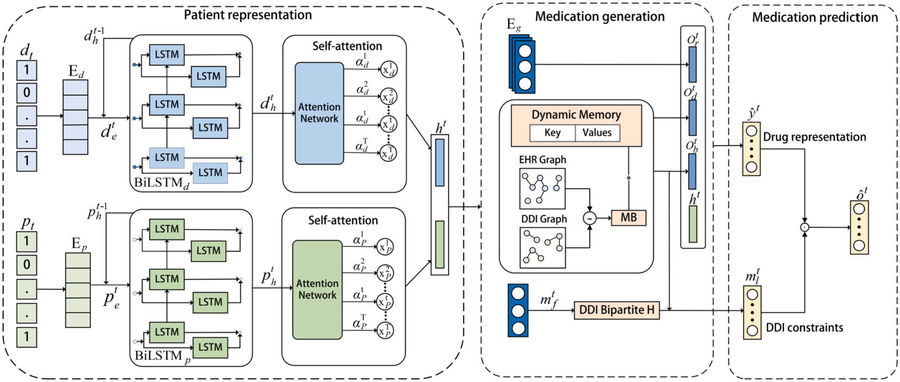
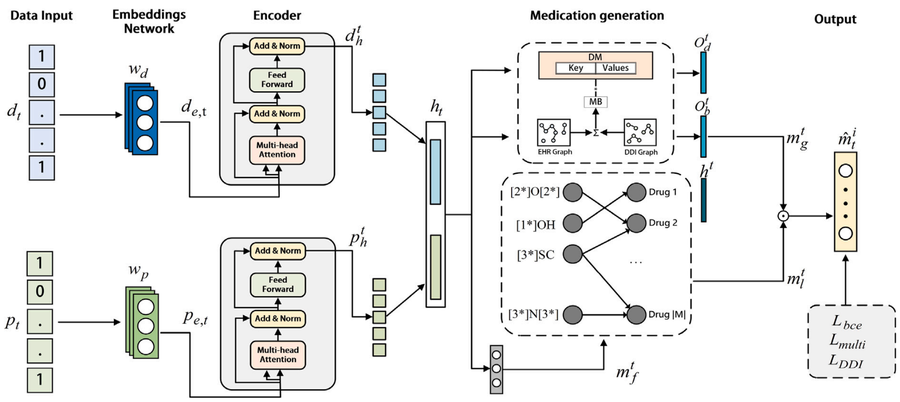
Use the corrected Trans-GAHNet and DG-MRM poster figures, list full author names, shorten the DG-MRM venue, and make muted text readable in dark mode

diff --git a/publications/index.html b/publications/index.html
@@ -78,7 +78,7 @@ review. My name appears in bold in the author lists below; click a figure to see
   </div>
   <div class="pub__body">
     <div class="pub__title">CLEAR: Prototype-conditioned flow purification for LLM-based rumor detection with Dirichlet evidential learning</div>
-    <div class="pub__authors">Z. Liu, H. Wu, X. Fang, <strong>G. Liu</strong>, et al.</div>
+    <div class="pub__authors">Z. Liu, H. Wu, X. Fang, <strong>G. Liu</strong>, H. Li, Z. Jing, H. Zhang</div>
     <div class="pub__venue"><em>Information Processing &amp; Management</em> <span class="badge-pill">IF 8.1</span>, 2026. <span class="pub__links">[<a href="https://doi.org/10.1016/j.ipm.2026.104887">DOI</a>]</span></div>
   </div>
 </div>
@@ -106,13 +106,13 @@ review. My name appears in bold in the author lists below; click a figure to see
 </div>
 <div class="pub pub--with-fig">
   <div class="pub__fig">
-    <a href="../images/DGMRM_model.png" target="_blank" rel="noopener"><img src="../images/DGMRM_model.png"
+    <a href="../images/DGMRM_poster.jpg" target="_blank" rel="noopener"><img src="../images/DGMRM_poster.jpg"
       alt="DG-MRM model architecture" loading="lazy" /></a>
   </div>
   <div class="pub__body">
     <div class="pub__title">DG-MRM: Dynamic Graph and Multi-view Medication Information for Recommending Medication Combination <span class="badge-pill badge-pill--alt">first author</span></div>
     <div class="pub__authors"><strong>G. Liu</strong>, Z. Liu, X. Yu, X. Li, X. Zheng, X. Fan</div>
-    <div class="pub__venue"><em>KDD-AIDSH 2024 &mdash; AI and Data Science for Healthcare workshop</em>, 2024. <span class="pub__links">[<a href="https://openreview.net/forum?id=hdE8YZIAjw">OpenReview</a>]</span></div>
+    <div class="pub__venue"><em>KDD-AIDSH</em>, 2024. <span class="pub__links">[<a href="https://openreview.net/forum?id=hdE8YZIAjw">OpenReview</a>]</span></div>
   </div>
 </div>
 <h2>Under Review</h2>
@@ -123,7 +123,7 @@ review. My name appears in bold in the author lists below; click a figure to see
   </div>
   <div class="pub__body">
     <div class="pub__title">ENCMed: A 3D-Encoder Framework with Neighbor Contrastive Learning for Safe Medication Recommendation <span class="badge-pill badge-pill--alt">first author</span></div>
-    <div class="pub__authors"><strong>G. Liu</strong>, Z. Liu, X. Yu, X. Li, X. Zheng, X. Fan</div>
+    <div class="pub__authors"><strong>G. Liu</strong>, X. Yu, X. Zheng</div>
     <div class="pub__venue"><em>Manuscript under review</em>, 2026.</div>
   </div>
 </div>

diff --git a/cv/index.html b/cv/index.html
@@ -101,7 +101,7 @@ version</a></p>
   </div>
   <div class="pub__body">
     <div class="pub__title">ENCMed: A 3D-Encoder Framework with Neighbor Contrastive Learning for Safe Medication Recommendation <span class="badge-pill badge-pill--alt">first author</span></div>
-    <div class="pub__authors"><strong>G. Liu</strong>, Z. Liu, X. Yu, X. Li, X. Zheng, X. Fan</div>
+    <div class="pub__authors"><strong>G. Liu</strong>, X. Yu, X. Zheng</div>
     <div class="pub__venue"><em>Manuscript under review</em>, 2026.</div>
   </div>
 </div>
@@ -112,7 +112,7 @@ version</a></p>
   </div>
   <div class="pub__body">
     <div class="pub__title">CLEAR: Prototype-conditioned flow purification for LLM-based rumor detection with Dirichlet evidential learning</div>
-    <div class="pub__authors">Z. Liu, H. Wu, X. Fang, <strong>G. Liu</strong>, et al.</div>
+    <div class="pub__authors">Z. Liu, H. Wu, X. Fang, <strong>G. Liu</strong>, H. Li, Z. Jing, H. Zhang</div>
     <div class="pub__venue"><em>Information Processing &amp; Management</em> <span class="badge-pill">IF 8.1</span>, 2026. <span class="pub__links">[<a href="https://doi.org/10.1016/j.ipm.2026.104887">DOI</a>]</span></div>
   </div>
 </div>
@@ -140,13 +140,13 @@ version</a></p>
 </div>
 <div class="pub pub--with-fig">
   <div class="pub__fig">
-    <a href="../images/DGMRM_model.png" target="_blank" rel="noopener"><img src="../images/DGMRM_model.png"
+    <a href="../images/DGMRM_poster.jpg" target="_blank" rel="noopener"><img src="../images/DGMRM_poster.jpg"
       alt="DG-MRM model architecture" loading="lazy" /></a>
   </div>
   <div class="pub__body">
     <div class="pub__title">DG-MRM: Dynamic Graph and Multi-view Medication Information for Recommending Medication Combination <span class="badge-pill badge-pill--alt">first author</span></div>
     <div class="pub__authors"><strong>G. Liu</strong>, Z. Liu, X. Yu, X. Li, X. Zheng, X. Fan</div>
-    <div class="pub__venue"><em>KDD-AIDSH 2024 &mdash; AI and Data Science for Healthcare workshop</em>, 2024. <span class="pub__links">[<a href="https://openreview.net/forum?id=hdE8YZIAjw">OpenReview</a>]</span></div>
+    <div class="pub__venue"><em>KDD-AIDSH</em>, 2024. <span class="pub__links">[<a href="https://openreview.net/forum?id=hdE8YZIAjw">OpenReview</a>]</span></div>
   </div>
 </div>
 <h2>Research Grants</h2>

diff --git a/assets/css/custom.css b/assets/css/custom.css
@@ -267,21 +267,29 @@
   align-items: flex-start;
 }
 .pub__fig {
+  /* one fixed box for every paper, so rows stay even whatever the aspect
+     ratio is (the DG-MRM poster is portrait, the architectures are wide) */
   flex: 0 0 216px;
   width: 216px;
+  height: 138px;
+  box-sizing: border-box;
+  border: 1px solid #e2e6ea;
+  border-radius: 6px;
+  background: #fff;
+  overflow: hidden;
 }
 .pub__fig a {
   display: block;
+  width: 100%;
+  height: 100%;
   border-bottom: none !important;
   text-decoration: none;
 }
 .pub__fig img {
   display: block;
   width: 100%;
-  height: auto;
-  border: 1px solid #e2e6ea;
-  border-radius: 6px;
-  background: #fff;
+  height: 100%;
+  object-fit: contain;
 }
 .pub__body {
   flex: 1 1 auto;
@@ -294,6 +302,8 @@
   .pub__fig {
     width: 100%;
     flex-basis: auto;
+    height: auto;
+    max-height: 240px;
     margin-bottom: 0.7em;
   }
 }
@@ -477,4 +487,44 @@ table.cmp td[colspan="2"] {
   .site-footer {
     display: none !important;
   }
+}
+
+/* ---------- dark theme overrides ----------
+   Every colour above was picked for a white page, so on the theme's dark
+   palette the muted greys and the navy accent lose their contrast. These
+   overrides only fire when the toggle sets html[data-theme="dark"], so the
+   light rendering is untouched. */
+html[data-theme="dark"] .site-footer,
+html[data-theme="dark"] .pub__authors,
+html[data-theme="dark"] .pub__venue,
+html[data-theme="dark"] .cv-entry__where,
+html[data-theme="dark"] .meta-note,
+html[data-theme="dark"] .cv-intro,
+html[data-theme="dark"] .dim,
+html[data-theme="dark"] .author__bio {
+  color: #c9cdd1;
+}
+html[data-theme="dark"] .cv-entry__when,
+html[data-theme="dark"] .pub-figure figcaption {
+  color: #b6bcc2;
+}
+html[data-theme="dark"] ul.plain li::before {
+  color: #8fbfe8;
+}
+html[data-theme="dark"] .badge-pill {
+  background: #2f4152;
+  color: #cfe4f7;
+}
+html[data-theme="dark"] .badge-pill--alt {
+  background: #4a3a22;
+  color: #f0d59a;
+}
+html[data-theme="dark"] .pub {
+  border-left-color: #5b6b7c;
+}
+html[data-theme="dark"] .pub__links a {
+  border-bottom-color: #7d93a8;
+}
+html[data-theme="dark"] .pub__fig {
+  border-color: #6a6a6a;
 }
